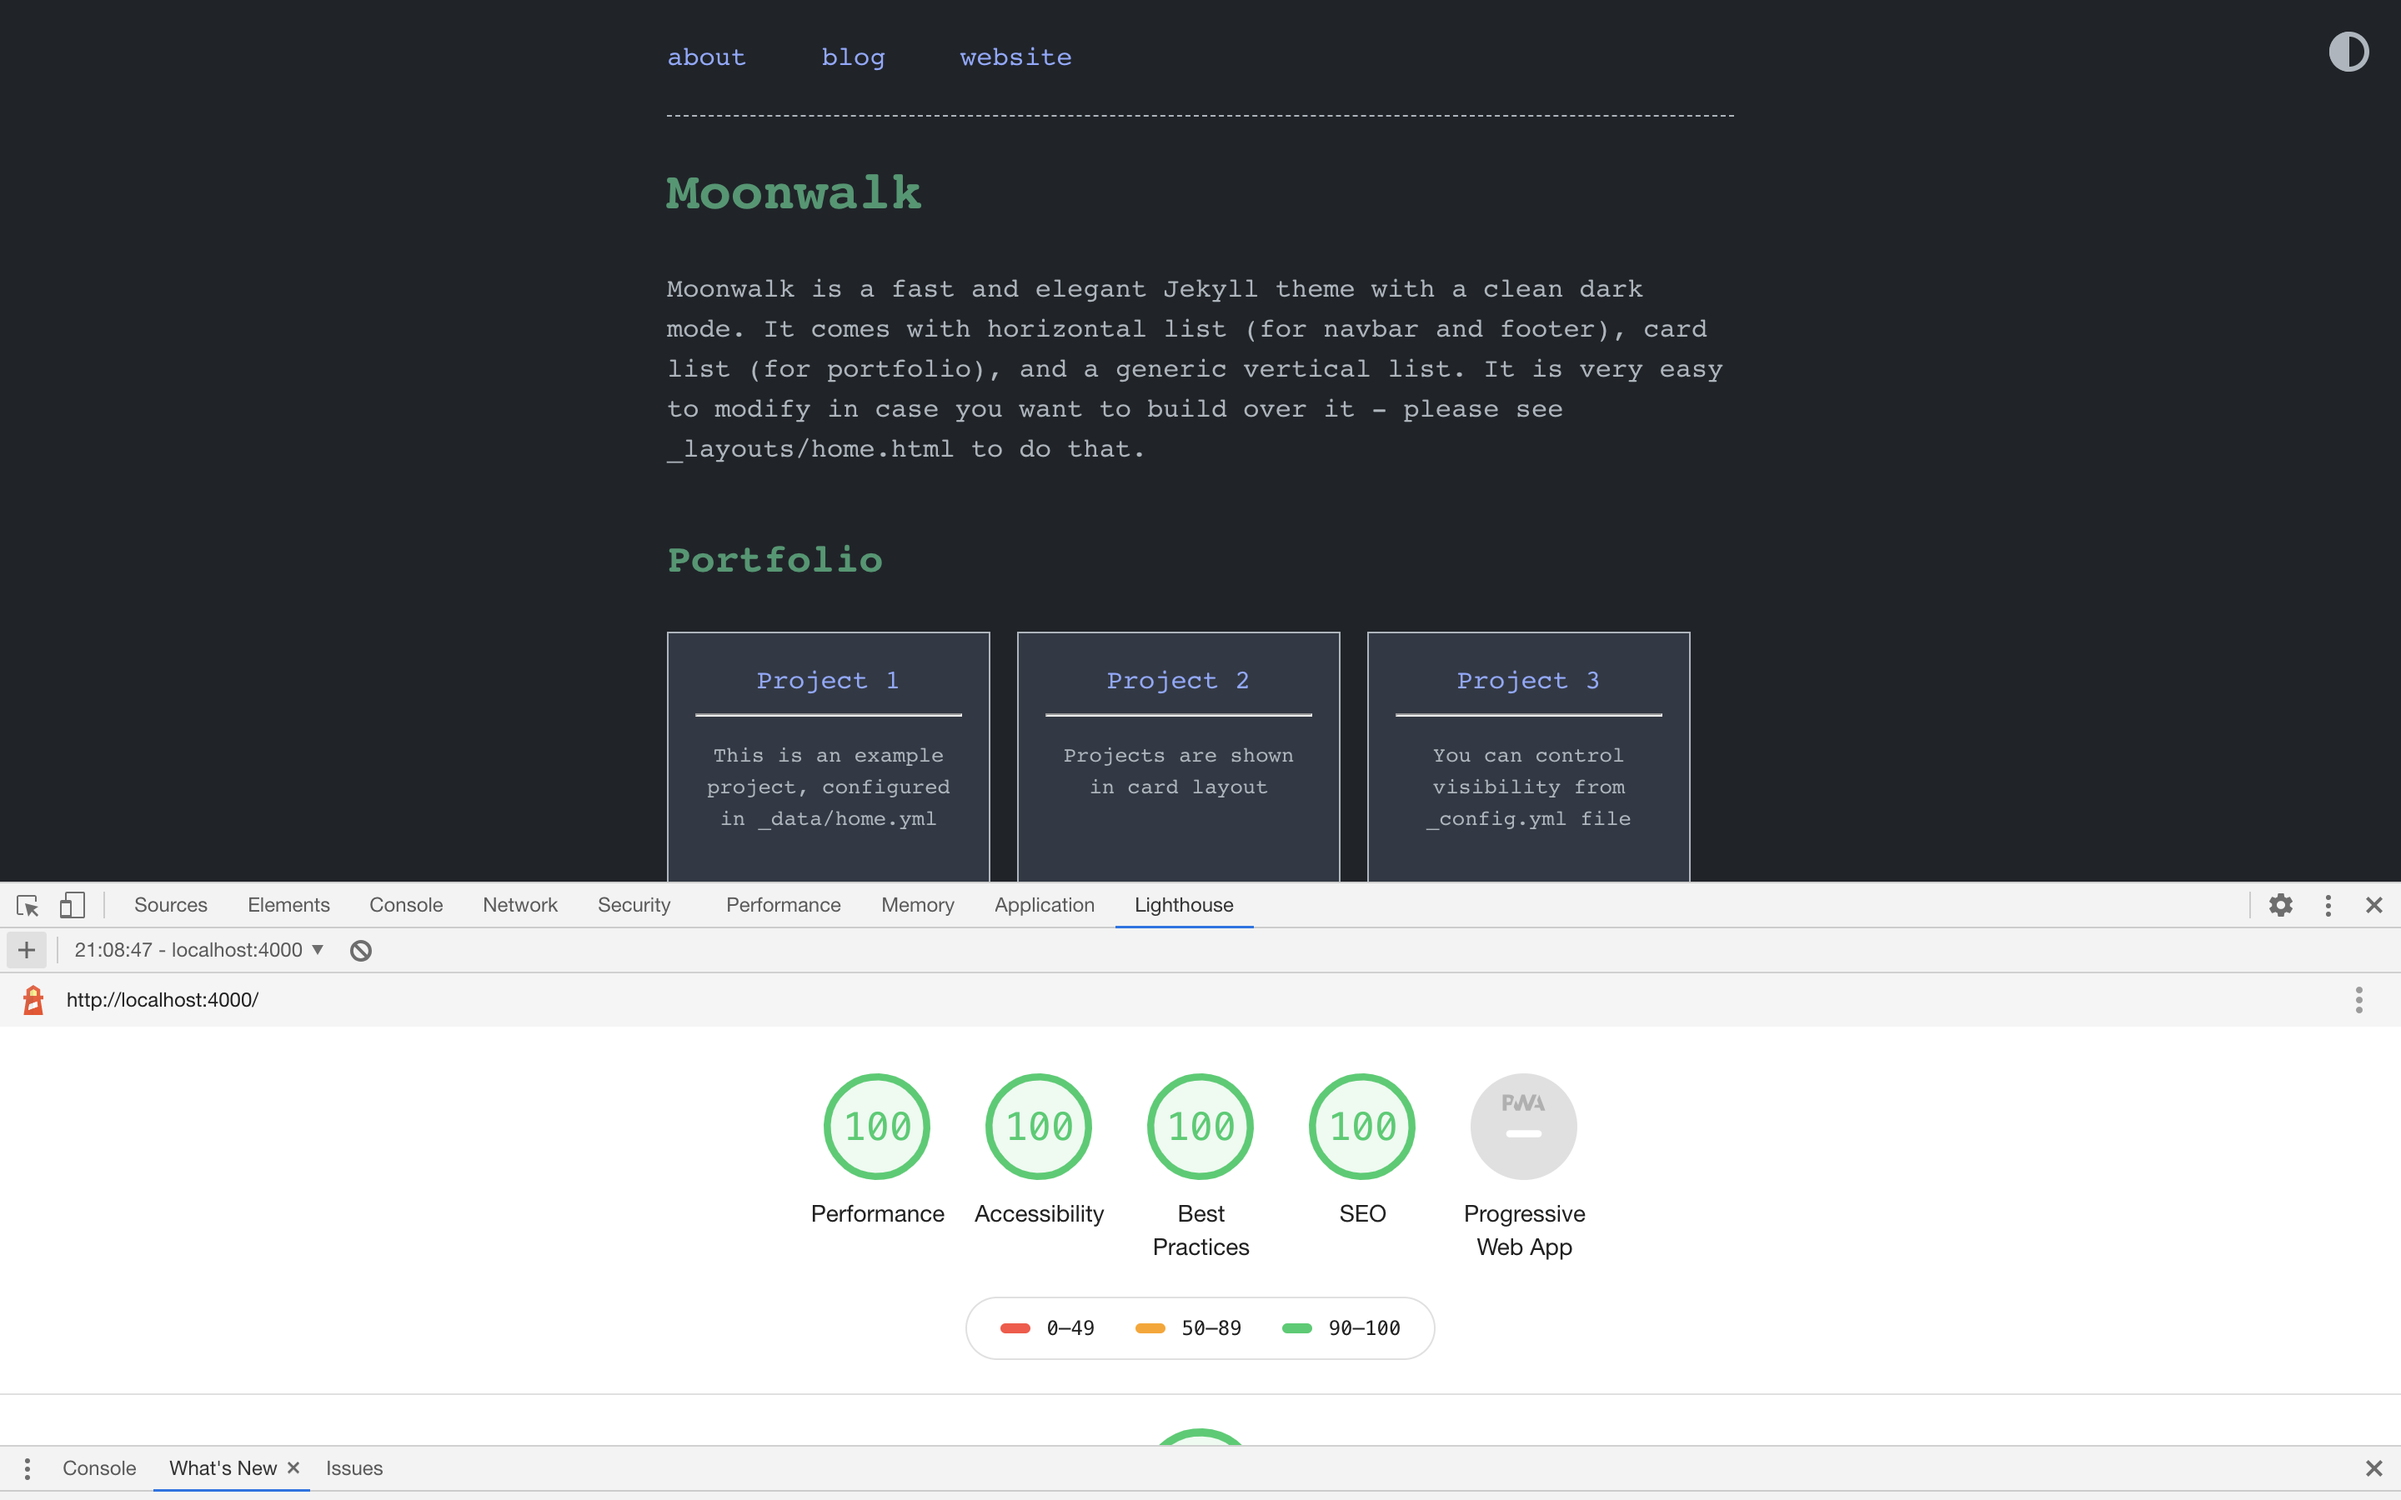
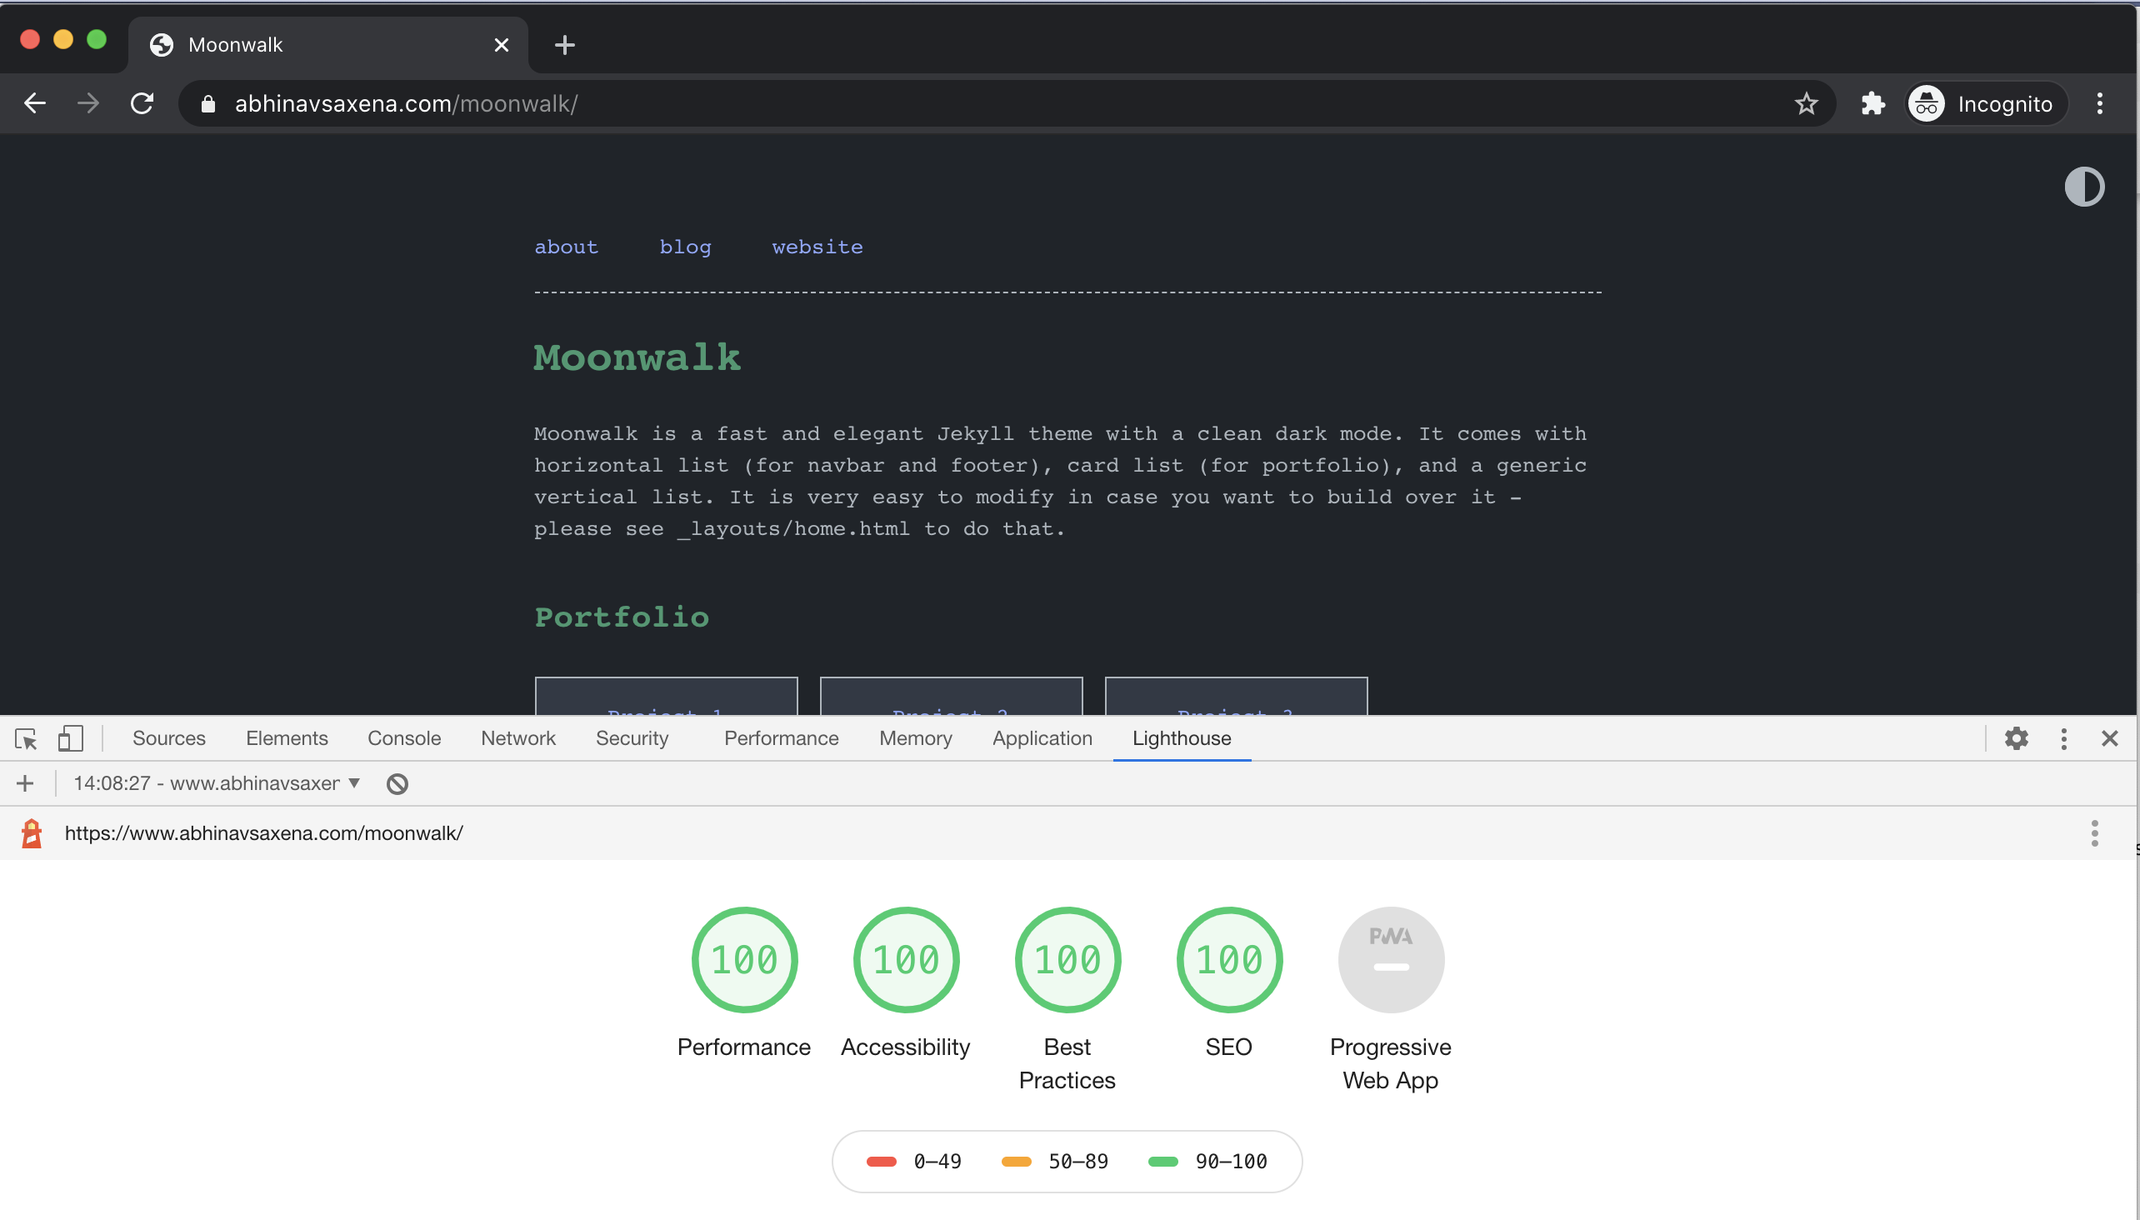
updated lighthouse screenshot

diff --git a/README.md b/README.md
@@ -10,7 +10,7 @@
 * Light & dark mode with theme switcher
 * Vertical list, horizontal list, card list
 * Landing page with navbar, footer, portfolio
-* Fast (very minimal CSS) - for more information on performance see [Lighthouse report](https://raw.githubusercontent.com/abhinavs/moonwalk/master/_screenshots/lighthouse-report.png)
+* Fast (very minimal CSS) - 100/100 on performance, accessibility, best practices and SEO, please see [Lighthouse Report](https://raw.githubusercontent.com/abhinavs/moonwalk/master/_screenshots/lighthouse-report.png) for more details
 * Responsive and mobile friendly
 * SEO optimized (uses [Jekyll SEO Tag](https://github.com/jekyll/jekyll-seo-tag))
 * RSS feed (uses [Jekyll Feed](https://github.com/jekyll/jekyll-feed))
